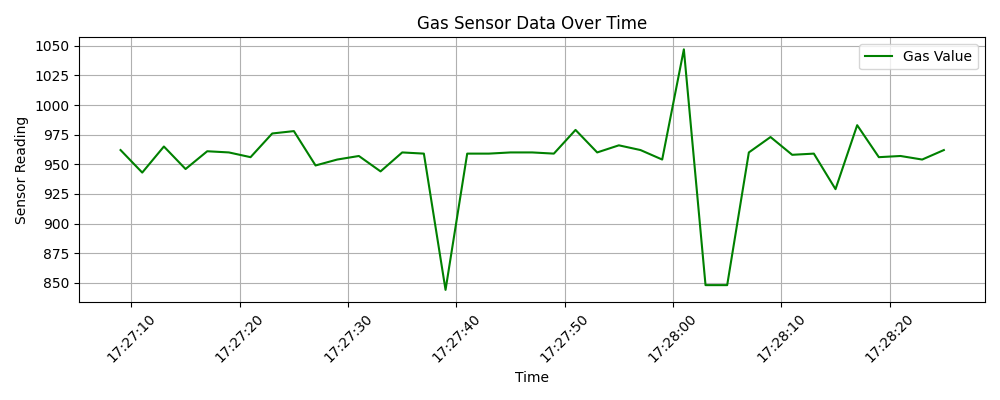
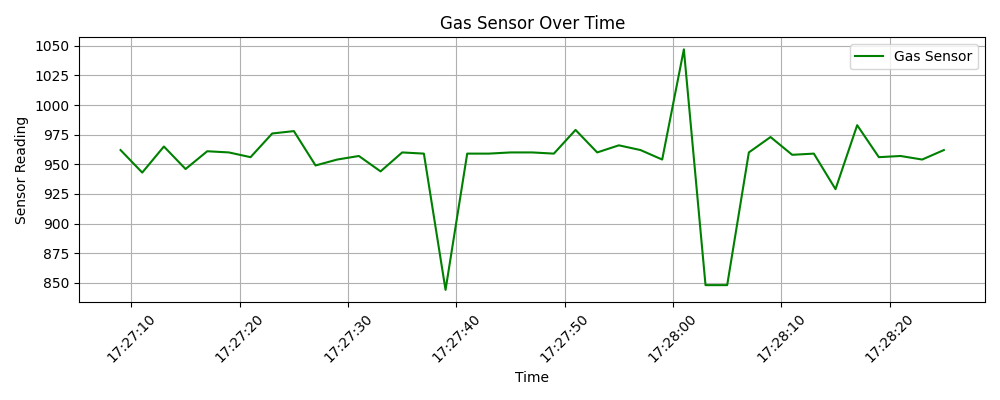
🛠 Fixed string literal bug in generate_graphs.py (line 42)

Changed region(s): [[0.403, 0.03, 0.651, 0.09], [0.837, 0.12, 0.992, 0.15]]

diff --git a/templates/map.html b/templates/map.html
@@ -1,53 +1,139 @@
 <!DOCTYPE html>
 <html>
 <head>
-    <title>Live Fire Map – Vandalur</title>
-    <meta charset="utf-8">
-    <style>
-        body, html {
-            height: 100%;
-            margin: 0;
-        }
+    
+    <meta http-equiv="content-type" content="text/html; charset=UTF-8" />
+    <script src="https://cdn.jsdelivr.net/npm/leaflet@1.9.3/dist/leaflet.js"></script>
+    <script src="https://code.jquery.com/jquery-3.7.1.min.js"></script>
+    <script src="https://cdn.jsdelivr.net/npm/bootstrap@5.2.2/dist/js/bootstrap.bundle.min.js"></script>
+    <script src="https://cdnjs.cloudflare.com/ajax/libs/Leaflet.awesome-markers/2.0.2/leaflet.awesome-markers.js"></script>
+    <link rel="stylesheet" href="https://cdn.jsdelivr.net/npm/leaflet@1.9.3/dist/leaflet.css"/>
+    <link rel="stylesheet" href="https://cdn.jsdelivr.net/npm/bootstrap@5.2.2/dist/css/bootstrap.min.css"/>
+    <link rel="stylesheet" href="https://netdna.bootstrapcdn.com/bootstrap/3.0.0/css/bootstrap-glyphicons.css"/>
+    <link rel="stylesheet" href="https://cdn.jsdelivr.net/npm/@fortawesome/fontawesome-free@6.2.0/css/all.min.css"/>
+    <link rel="stylesheet" href="https://cdnjs.cloudflare.com/ajax/libs/Leaflet.awesome-markers/2.0.2/leaflet.awesome-markers.css"/>
+    <link rel="stylesheet" href="https://cdn.jsdelivr.net/gh/python-visualization/folium/folium/templates/leaflet.awesome.rotate.min.css"/>
+    
+            <meta name="viewport" content="width=device-width,
+                initial-scale=1.0, maximum-scale=1.0, user-scalable=no" />
+            <style>
+                #map_f6898c0be21c9bba24f83c968e9cefcf {
+                    position: relative;
+                    width: 100.0%;
+                    height: 100.0%;
+                    left: 0.0%;
+                    top: 0.0%;
+                }
+                .leaflet-container { font-size: 1rem; }
+            </style>
 
-        #map {
-            height: 100%;
-            width: 100%;
-        }
-    </style>
+            <style>html, body {
+                width: 100%;
+                height: 100%;
+                margin: 0;
+                padding: 0;
+            }
+            </style>
 
-    <!-- Load Leaflet from CDN -->
-    <link rel="stylesheet" href="https://unpkg.com/leaflet/dist/leaflet.css" />
-    <script src="https://unpkg.com/leaflet/dist/leaflet.js"></script>
+            <style>#map {
+                position:absolute;
+                top:0;
+                bottom:0;
+                right:0;
+                left:0;
+                }
+            </style>
+
+            <script>
+                L_NO_TOUCH = false;
+                L_DISABLE_3D = false;
+            </script>
+
+        
 </head>
 <body>
-
-<div id="map"></div>
-
-<script>
-    // 🎯 Vandalur Reserve Forest Coordinates
-    var latitude = 12.8882;
-    var longitude = 80.0807;
-
-    var map = L.map('map').setView([latitude, longitude], 15);
-
-    // 🌐 Satellite tile layer (ESRI)
-    L.tileLayer('https://server.arcgisonline.com/ArcGIS/rest/services/World_Imagery/MapServer/tile/{z}/{y}/{x}', {
-        attribution: 'Tiles © Esri & contributors',
-        maxZoom: 20
-    }).addTo(map);
-
-    // 🔥 Fire Icon
-    var fireIcon = L.icon({
-        iconUrl: 'https://img.icons8.com/emoji/48/fire.png',
-        iconSize: [32, 32],
-        iconAnchor: [16, 32],
-        popupAnchor: [0, -30]
-    });
-
-    L.marker([latitude, longitude], {icon: fireIcon}).addTo(map)
-        .bindPopup("🔥 Fire detected – Vandalur Forest!")
-        .openPopup();
-</script>
-
+    
+    
+            <div class="folium-map" id="map_f6898c0be21c9bba24f83c968e9cefcf" ></div>
+        
 </body>
+<script>
+    
+    
+            var map_f6898c0be21c9bba24f83c968e9cefcf = L.map(
+                "map_f6898c0be21c9bba24f83c968e9cefcf",
+                {
+                    center: [13.0827, 80.2707],
+                    crs: L.CRS.EPSG3857,
+                    ...{
+  "zoom": 7,
+  "zoomControl": true,
+  "preferCanvas": false,
+}
+
+                }
+            );
+
+            
+
+        
+    
+            var tile_layer_b6bb9d5109122b072f5231d49da59334 = L.tileLayer(
+                "https://tile.openstreetmap.org/{z}/{x}/{y}.png",
+                {
+  "minZoom": 0,
+  "maxZoom": 19,
+  "maxNativeZoom": 19,
+  "noWrap": false,
+  "attribution": "\u0026copy; \u003ca href=\"https://www.openstreetmap.org/copyright\"\u003eOpenStreetMap\u003c/a\u003e contributors",
+  "subdomains": "abc",
+  "detectRetina": false,
+  "tms": false,
+  "opacity": 1,
+}
+
+            );
+        
+    
+            tile_layer_b6bb9d5109122b072f5231d49da59334.addTo(map_f6898c0be21c9bba24f83c968e9cefcf);
+        
+    
+            var marker_8db60f09de940db32c53fc16ea8c2e2c = L.marker(
+                [13.0827, 80.2707],
+                {
+}
+            ).addTo(map_f6898c0be21c9bba24f83c968e9cefcf);
+        
+    
+            var icon_432580c8be601168bac297817191bb21 = L.AwesomeMarkers.icon(
+                {
+  "markerColor": "red",
+  "iconColor": "white",
+  "icon": "info-sign",
+  "prefix": "glyphicon",
+  "extraClasses": "fa-rotate-0",
+}
+            );
+        
+    
+        var popup_aaf335effb16b317cd6e40c44a9b1616 = L.popup({
+  "maxWidth": "100%",
+});
+
+        
+            
+                var html_ecc3f509dc0610076dc8b22c773df379 = $(`<div id="html_ecc3f509dc0610076dc8b22c773df379" style="width: 100.0%; height: 100.0%;">🔥 High Fire Risk Detected!</div>`)[0];
+                popup_aaf335effb16b317cd6e40c44a9b1616.setContent(html_ecc3f509dc0610076dc8b22c773df379);
+            
+        
+
+        marker_8db60f09de940db32c53fc16ea8c2e2c.bindPopup(popup_aaf335effb16b317cd6e40c44a9b1616)
+        ;
+
+        
+    
+    
+                marker_8db60f09de940db32c53fc16ea8c2e2c.setIcon(icon_432580c8be601168bac297817191bb21);
+            
+</script>
 </html>

diff --git a/generate_graphs.py b/generate_graphs.py
@@ -1,88 +1,65 @@
 import pandas as pd
+import matplotlib
+matplotlib.use('Agg')  # Use a non-interactive backend (important!)
 import matplotlib.pyplot as plt
-import folium
-from datetime import datetime
-
-# Load data
-df = pd.read_csv("fire_logs.csv")
-
-# Convert timestamp to datetime
-df["Timestamp"] = pd.to_datetime(df["Timestamp"])
-
-# 🔥 Assign numeric values to prediction for plotting
-df["Prediction_Value"] = df["Prediction"].apply(lambda x: 1 if x == "HIGH" else 0)
-
-# Plot 1: Temperature
-plt.figure(figsize=(10, 4))
-plt.plot(df["Timestamp"], df["Temperature"], color='red', label='Temperature (°C)')
-plt.title("Temperature Over Time")
-plt.xlabel("Time")
-plt.ylabel("°C")
-plt.xticks(rotation=45)
-plt.tight_layout()
-plt.grid(True)
-plt.legend()
-plt.savefig("static/graph_temperature.png")
-plt.close()
-
-# Plot 2: Humidity
-plt.figure(figsize=(10, 4))
-plt.plot(df["Timestamp"], df["Humidity"], color='blue', label='Humidity (%)')
-plt.title("Humidity Over Time")
-plt.xlabel("Time")
-plt.ylabel("%")
-plt.xticks(rotation=45)
-plt.tight_layout()
-plt.grid(True)
-plt.legend()
-plt.savefig("static/graph_humidity.png")
-plt.close()
-
-# Plot 3: Gas Sensor
-plt.figure(figsize=(10, 4))
-plt.plot(df["Timestamp"], df["Gas"], color='green', label='Gas Value')
-plt.title("Gas Sensor Data Over Time")
-plt.xlabel("Time")
-plt.ylabel("Sensor Reading")
-plt.xticks(rotation=45)
-plt.tight_layout()
-plt.grid(True)
-plt.legend()
-plt.savefig("static/graph_gas.png")
-plt.close()
-
-# Plot 4: Fire Risk (HIGH/LOW)
-plt.figure(figsize=(10, 4))
-plt.plot(df["Timestamp"], df["Prediction_Value"], marker='o', linestyle='--', color='purple', label='Fire Risk (1=HIGH)')
-plt.title("Fire Risk Over Time")
-plt.xlabel("Time")
-plt.ylabel("Risk (0=LOW, 1=HIGH)")
-plt.yticks([0, 1])
-plt.xticks(rotation=45)
-plt.tight_layout()
-plt.grid(True)
-plt.legend()
-plt.savefig("static/graph_risk.png")
-plt.close()
-
-# 🌍 Generate map
-
-def generate_map():
-    # Example static coordinates (replace with live GPS later)
-    latitude = 13.0827
-    longitude = 80.2707
-
-    m = folium.Map(location=[latitude, longitude], zoom_start=7)
-    folium.Marker(
-        [latitude, longitude],
-        popup="🔥 High Fire Risk Detected!",
-        icon=folium.Icon(color="red")
-    ).add_to(m)
-
-    m.save("templates/map.html")
 
 def main():
-    generate_map()
+    # Load data
+    df = pd.read_csv("fire_logs.csv")
 
-if __name__ == "__main__":
-    main()
+    # Convert timestamp
+    df["Timestamp"] = pd.to_datetime(df["Timestamp"])
+    df["Prediction_Value"] = df["Prediction"].apply(lambda x: 1 if x == "HIGH" else 0)
+
+    # Plot 1: Temperature
+    plt.figure(figsize=(10, 4))
+    plt.plot(df["Timestamp"], df["Temperature"], color='red', label='Temperature (°C)')
+    plt.title("Temperature Over Time")
+    plt.xlabel("Time")
+    plt.ylabel("°C")
+    plt.xticks(rotation=45)
+    plt.tight_layout()
+    plt.grid(True)
+    plt.legend()
+    plt.savefig("static/graph_temperature.png")
+    plt.close()
+
+    # Plot 2: Humidity
+    plt.figure(figsize=(10, 4))
+    plt.plot(df["Timestamp"], df["Humidity"], color='blue', label='Humidity (%)')
+    plt.title("Humidity Over Time")
+    plt.xlabel("Time")
+    plt.ylabel("%")
+    plt.xticks(rotation=45)
+    plt.tight_layout()
+    plt.grid(True)
+    plt.legend()
+    plt.savefig("static/graph_humidity.png")
+    plt.close()
+
+    # Plot 3: Gas
+    plt.figure(figsize=(10, 4))
+    plt.plot(df["Timestamp"], df["Gas"], color='green', label="Gas Sensor")
+    plt.title("Gas Sensor Over Time")
+    plt.xlabel("Time")
+    plt.ylabel("Sensor Reading")
+    plt.xticks(rotation=45)
+    plt.tight_layout()
+    plt.grid(True)
+    plt.legend()
+    plt.savefig("static/graph_gas.png")
+    plt.close()
+
+    # Plot 4: Fire Risk
+    plt.figure(figsize=(10, 4))
+    plt.plot(df["Timestamp"], df["Prediction_Value"], marker='o', linestyle='--', color='purple', label='Fire Risk (1=HIGH)')
+    plt.title("Fire Risk Over Time")
+    plt.xlabel("Time")
+    plt.ylabel("Risk (0=LOW, 1=HIGH)")
+    plt.yticks([0, 1])
+    plt.xticks(rotation=45)
+    plt.tight_layout()
+    plt.grid(True)
+    plt.legend()
+    plt.savefig("static/graph_risk.png")
+    plt.close()
